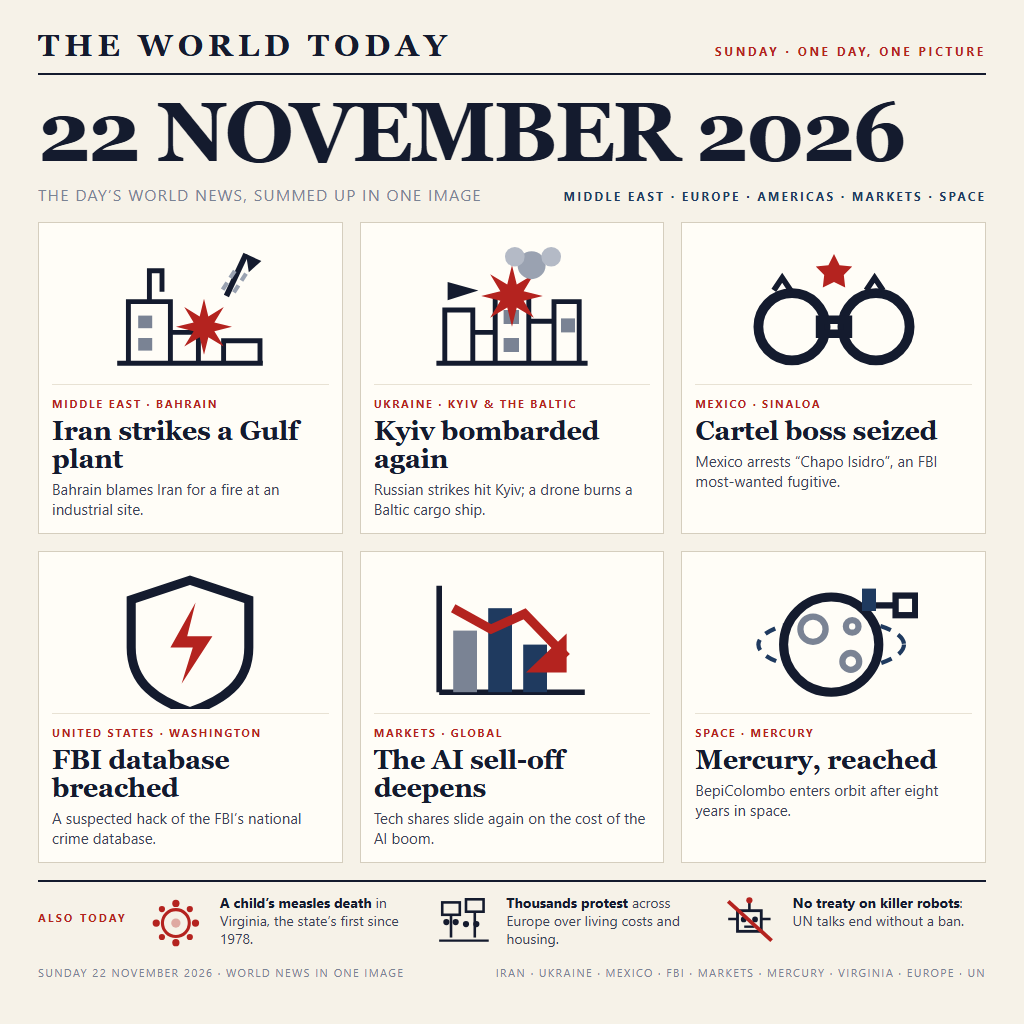
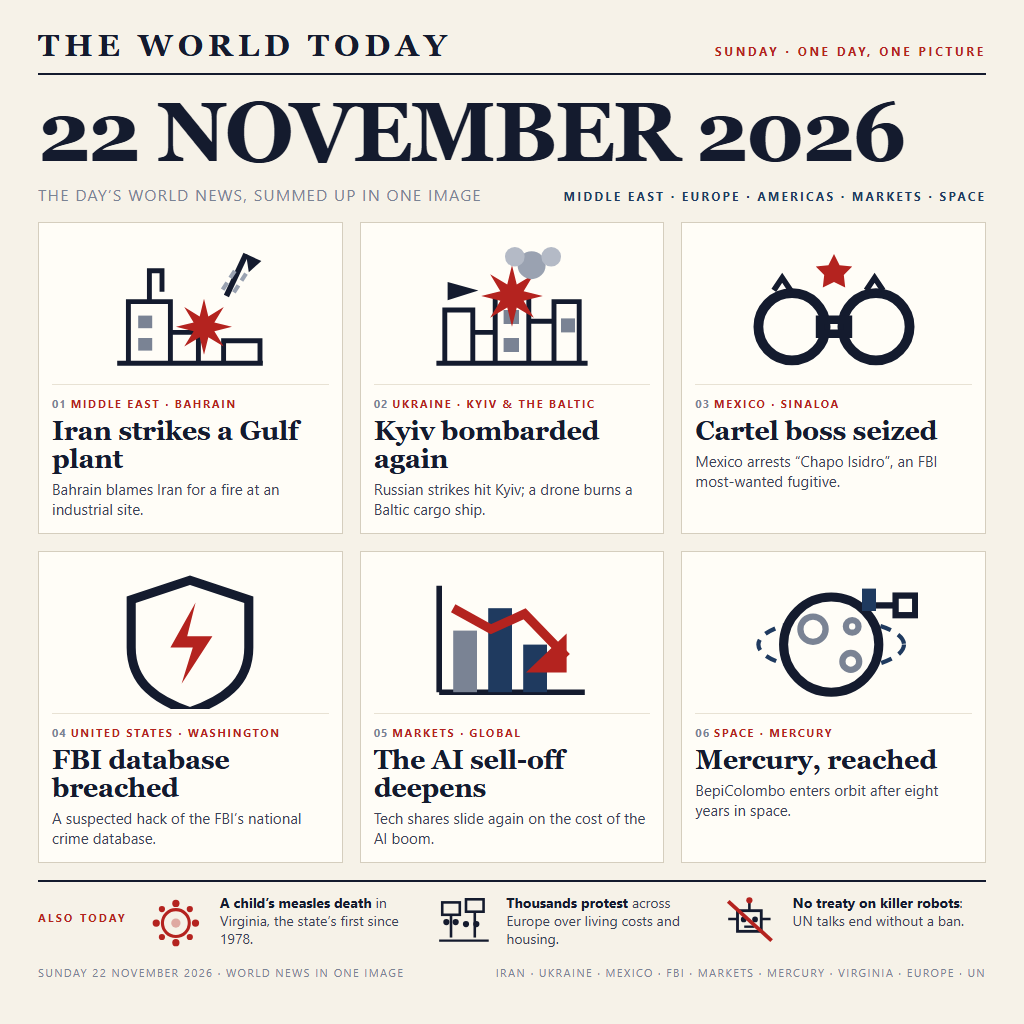
Number the six stories; check JPEG sizes too

diff --git a/main.ts b/main.ts
@@ -46,6 +46,21 @@ if (isPng) {
   if (!sawIend) throw new Error('entry.png has no IEND chunk');
 }
 
+if (isJpeg) {
+  // walk the segments to the frame header, which holds the picture's own size
+  let at = 2;
+  while (at + 9 < bytes.length) {
+    if (bytes[at] !== 0xff) throw new Error('entry.png is a broken JPEG at ' + at);
+    const marker = bytes[at + 1];
+    if (marker >= 0xc0 && marker <= 0xcf && marker !== 0xc4 && marker !== 0xc8 && marker !== 0xcc) {
+      height = bytes.readUInt16BE(at + 5);
+      width = bytes.readUInt16BE(at + 7);
+      break;
+    }
+    at += 2 + bytes.readUInt16BE(at + 2);
+  }
+}
+
 if (width > MAX_SIDE || height > MAX_SIDE) {
   throw new Error('entry.png is ' + width + ' by ' + height + ', over 1024 by 1024');
 }

diff --git a/render/poster.html b/render/poster.html
@@ -27,7 +27,10 @@
   .card{background:var(--card);border:1px solid var(--rule);padding:12px 13px 13px}
   .art{height:150px;display:flex;align-items:center;justify-content:center;border-bottom:1px solid #E8E2D4;margin-bottom:11px}
   .art svg{height:140px;width:auto}
+  body{counter-reset:story}
+  .card{counter-increment:story}
   .section{font-size:11px;letter-spacing:1.7px;color:var(--red);font-weight:700}
+  .section::before{content:counter(story,decimal-leading-zero) "   ";color:var(--muted);letter-spacing:1px}
   h2{font-family:Georgia,serif;font-size:27px;line-height:1.04;margin:6px 0 7px;letter-spacing:-0.3px}
   p{font-size:15px;line-height:1.33;color:var(--ink2)}
 
